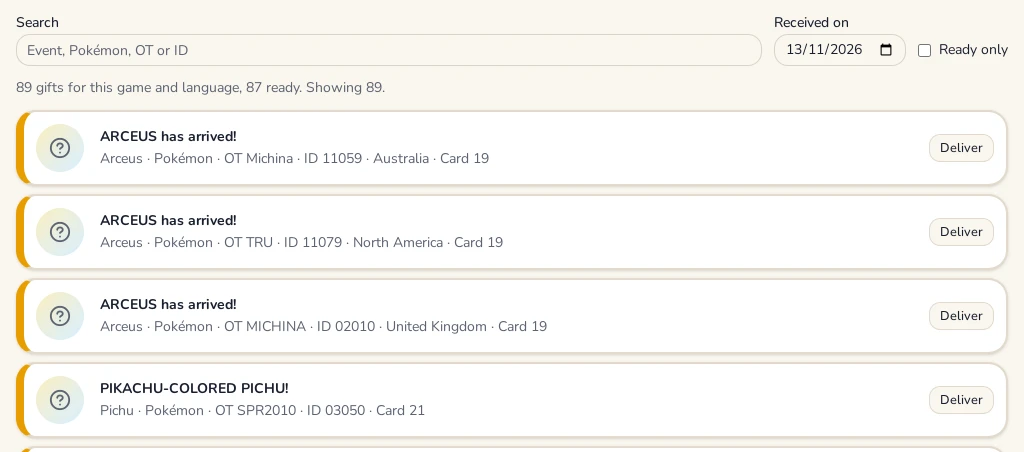
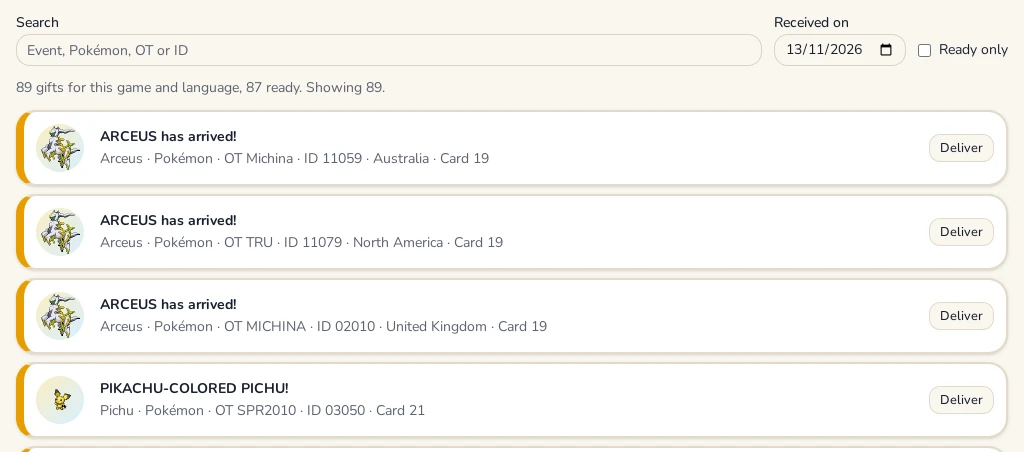
docs: show real sprites in the landing page screenshots
The screenshots blocked sprites so the repo held no Nintendo art, which left
a placeholder where each Pokémon should be. The rule now covers the code and
releases only; the README notes that screenshot artwork isn't covered by the
GPLv3.

diff --git a/web/scripts/screenshots.js b/web/scripts/screenshots.js
@@ -3,8 +3,7 @@
 //   npm run build && npx vite preview --port 4173 &
 //   npm run screenshots
 //
-// Sprites and item icons are blocked, so the images hold no Nintendo art (the app shows its
-// placeholder instead): the repo ships none.
+// Sprites and item icons load from the network as in the app, so it must be online.
 import { writeFile } from 'node:fs/promises';
 import { chromium } from 'playwright';
 
@@ -13,11 +12,23 @@ const CORPUS = new URL('../../corpus/real/pkhex-avalonia/', import.meta.url).pat
 const OUT = new URL('../static/screenshots/', import.meta.url).pathname;
 
 /**
- * Waits for running animations (the sheet sliding in) to end or be cancelled.
+ * Waits for running animations (the sheet sliding in) to end or be cancelled, and for the
+ * images on screen (sprites, item icons) to load or fail. Lazy images off screen never load, so
+ * they're left out.
  * @param {import('playwright').Page} page
  */
 async function settled(page) {
 	await page.evaluate(() => Promise.allSettled(document.getAnimations().map((a) => a.finished)));
+	await page.evaluate(() =>
+		Promise.allSettled(
+			[...document.images]
+				.filter((img) => {
+					const r = img.getBoundingClientRect();
+					return r.bottom > 0 && r.top < innerHeight && r.width > 0;
+				})
+				.map((img) => img.decode())
+		)
+	);
 }
 
 /**
@@ -73,7 +84,7 @@ async function webp(page, png, scale) {
 }
 
 const browser = await chromium.launch();
-// The service worker would serve cached sprites past the route block.
+// No service worker, so every run fetches the same pinned sprites rather than a cached mix.
 const context = await browser.newContext({
 	viewport: { width: 1280, height: 1000 },
 	deviceScaleFactor: 2,
@@ -81,7 +92,6 @@ const context = await browser.newContext({
 	serviceWorkers: 'block'
 });
 const page = await context.newPage();
-await page.route('**/gh/PokeAPI/sprites@*/**', (route) => route.abort());
 
 await page.goto(`${BASE}/app`);
 await page.getByTestId('file').setInputFiles(CORPUS + 'gen4_platinum.sav');

diff --git a/web/src/routes/+page.svelte b/web/src/routes/+page.svelte
@@ -245,9 +245,6 @@
 				Mystery Gifts for your save's game and language, ready to deliver.
 			</figcaption>
 		</figure>
-		<p class="text-xs text-muted-foreground">
-			The app shows Pokémon sprites; they're left out of these pictures.
-		</p>
 	</section>
 
 	<section aria-labelledby="features" class="flex flex-col gap-4">

diff --git a/CONTRIBUTING.md b/CONTRIBUTING.md
@@ -71,8 +71,9 @@ Coverage is local only: `cargo coverage` (needs `cargo-llvm-cov`) and `npm run c
 - **The core stays `no_std`**, does no I/O and works on byte buffers, so the DS and the web share it.
 - **TypeScript stays strict.** No `any`, no `as` type assertions (`as const` is fine), and no
   `@ts-ignore`. Narrow with a check instead; the lint config enforces this.
-- **No Nintendo assets in the repo or a release.** The DS reads fonts and graphics from the
-  user's own ROM at runtime, and the web app hotlinks sprites.
+- **No Nintendo assets in the code or a release.** The DS reads fonts and graphics from the
+  user's own ROM at runtime, and the web app hotlinks sprites. Screenshots and photos may show
+  them.
 
 ## Commits and pull requests
 

diff --git a/README.md b/README.md
@@ -73,3 +73,5 @@ rules they follow.
 - Memory Link research and references adapted from [BW_tool](https://github.com/suloku/BW_tool) (suloku).
 - Verity is a fan project, not affiliated with or endorsed by Nintendo, Game Freak or The Pokémon
   Company.
+- Screenshots and photos show Pokémon artwork © Nintendo, Game Freak and The Pokémon Company. That
+  artwork isn't covered by the GPLv3, and none of it ships with Verity.
